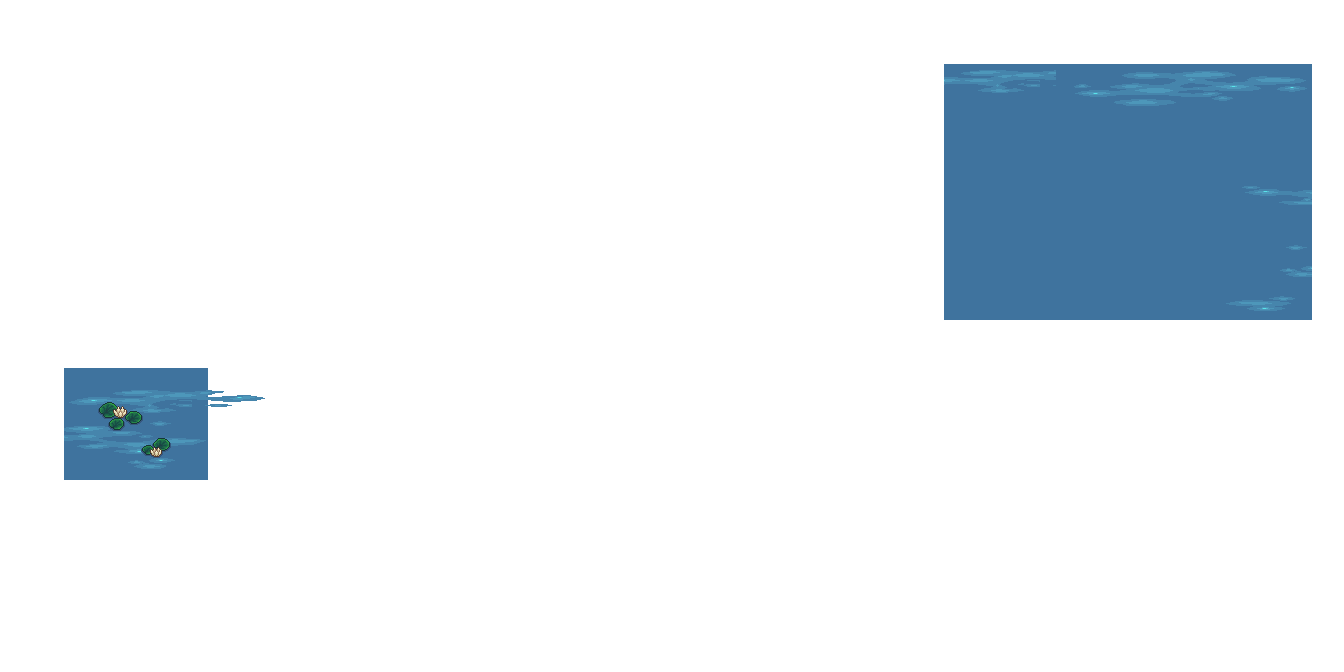
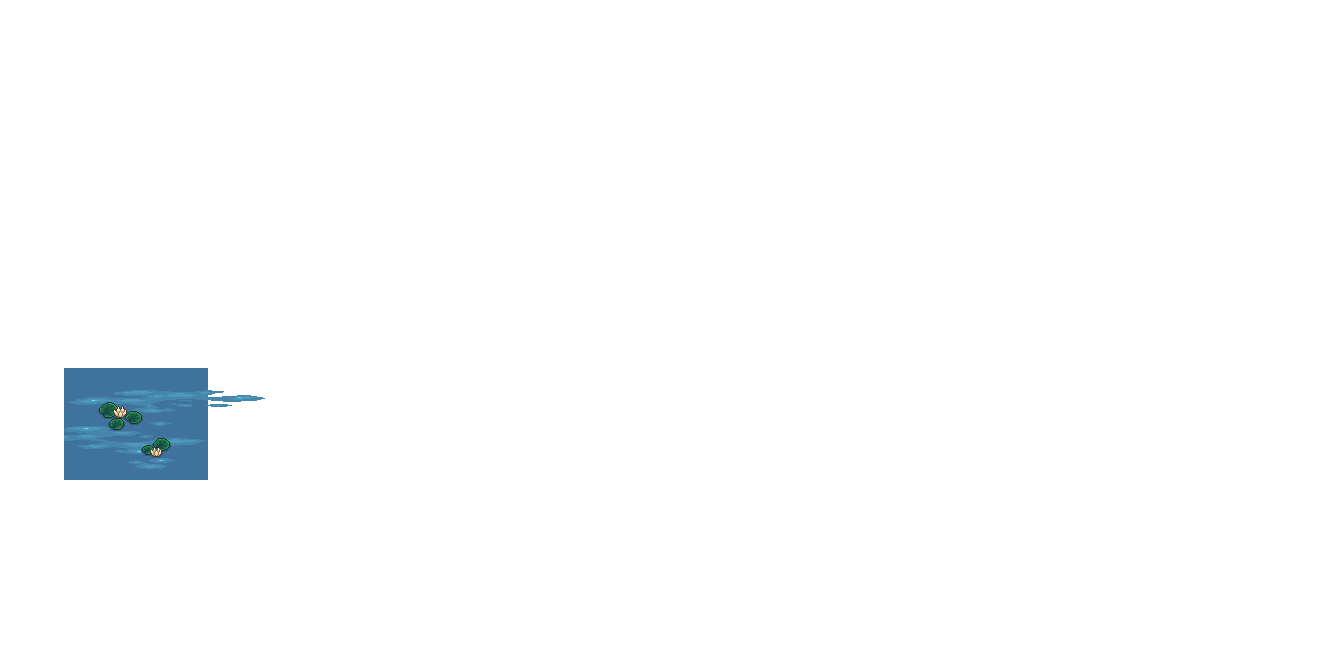
Rebuild Greyhaven as one continuous place instead of stamped rectangles
- Scenes contribute buildings, objects, water, shores and paths only; their flat grass and
  dirt fills are detected by frequency/colour and dropped, so one grass runs under everything
- Scene dirt fills are redrawn with the shared autotile as eroded, roughened clearings;
  the Lift Station gets a dirt yard the same way
- Main road wanders instead of running dead straight; base grass gets tufts and darker
  patches; the herbalist's stray ledge layer is dropped; base grass is cleared under ponds
- Water cells are solid unless a shore or bridge tile covers them

Changed region(s): [[0.6875, 0.0938, 1.0, 0.5]]

diff --git a/assets/maps/greyhaven/map.js b/assets/maps/greyhaven/map.js
@@ -1,3 +1,3 @@
 window.RPG = window.RPG || {};
 RPG.MAPS = RPG.MAPS || {};
-RPG.MAPS["greyhaven"] = {"zone": "greyhaven", "kind": "town", "w": 84, "h": 42, "tile": 16, "waterFrames": 6, "solid": "000011100001000000010000000000000111000000000000000010011100100000000000000000000000000011100011111000010000000000000110001000000000000010011000100110000000000000000000000001000011100000000000000000000000001000000000000000000000000000000000000000000000010000000001000000000000000000000000000000000000000000000000000000000000000000000000110000000000000000110000001111000000000111100000000100000000000000110011111100000000010001100000000000110000001111010000001111000110101110000000100111110011111100110000010011100000000000100000001111010000111111001111000100000000110110111111111000111000000011100000000000000000000110010000111110001111011010000000100100111111111100111000000001000000011000000001000000000111111111111110000000000001001100111111110000111000000000000000011000000000000010110001111111100110000000000001001101111111111001111000000000000000011000000000000000110001111111100000001100000001101100111111110001101000000000000000000000000000000000110001111111100000000010000000001100111111110111100000000000000000000000000000000000110001111111100011000110000000110000011111110000000000010000000000000000000000000100000001000000000000000010011000111000000000000000000000010000000000000000000000000110110000000000000000010010011000111000000000000000100000000001111111110111110111000100000001000000010000000000010000110100000000000110100000000001111111110011111110010000000111111100111000100000000000110000000000000110000000000000101111111111111111010000000110000000000001000000000000000000000000000000000000011000001111111111111100000000111111111100011111111110000000000000000000000100000000000001100011111111111000000000111111111110011111111110010000000000000000000000000000000000001111111111110000000010111111111110011111111110000000000000000000000000000000000000000011111111110000000000111111101110000011111110000000000000000000000000011000000000000011111111110000000000111100000000000000011110000000000000000000000000011000000000000000111111000000000000111000000000000000001110000000000000000000000000000000000000000000000000000000010000110000000000000000000110000000110001000000000001110000000000000000000000000000000000110000100000000000000000000000000001000000000001100000000000000000000000000000000000000000100000000000000000000000000000000000000000000000000000000000000000000000000000000000000000000000000000000000000000000000000000000000000000000000000000000000000000000000000000000000000000000000000000000000000001110000000000000000000000000010000000000000000000000000000000001100000000000000000001100000000000000000000000000000000010000011100000000000011000001100000000000000000000000000000000000000000000000000000000011111111100000000001000000000000000010000000000000000000000000000000000000000000000111111110000000000000110000000000000010000010000000000000000000000000000000000000000111111111100011111111110000000000000000000000000000000000000000000000000000000000000000000000000000000000000000000000000000000000000000000000000000000000000000000000000000000000000000000000000000000000000000000000000000000000000000000000000000000000000000000000000000000000000000000000000000000000000000000000000000000000000000000000000000000000000000000000000000000000000000000000000000000000000000000000000000000000000010000001000000000001000000000111100000000000000000000000000000000000000100000000000010000001001000000011100000010011000010110000000000000000010000001000110000000000000000001000011000000001000110010011000010000011000000000000010000000000000000000000000000001000000000000000000000000000000000000000000000000", "entry": [1, 35], "exit": [82, 35], "walkable": 2840, "doors": [{"id": "hall", "zone": "hall_int", "label": "Hunter Hall", "cells": [[40, 13], [41, 13]]}, {"id": "clinic", "zone": "clinic_int", "label": "The Clinic", "cells": [[14, 24], [15, 24]]}, {"id": "lift", "zone": "lift_int", "label": "Old Lift Station", "cells": [[69, 13], [70, 13]]}], "npcs": [{"id": "speaker", "sprite": "npcs/speaker", "x": 584, "y": 460, "dir": 3, "wander": true}, {"id": "archivist", "sprite": "npcs/archivist", "x": 1192, "y": 236, "dir": 0, "wander": false}, {"id": "keeper1", "sprite": "npcs/keeper1", "x": 1032, "y": 236, "dir": 3, "wander": false}, {"id": "keeper2", "sprite": "npcs/keeper2", "x": 1224, "y": 204, "dir": 2, "wander": false}, {"id": "baker", "sprite": "npcs/baker", "x": 776, "y": 364, "dir": 0, "wander": false}, {"id": "smith", "sprite": "npcs/smith", "x": 728, "y": 444, "dir": 0, "wander": false}, {"id": "tapster", "sprite": "npcs/tapster", "x": 712, "y": 508, "dir": 0, "wander": false}, {"id": "lutist", "sprite": "npcs/lutist", "x": 648, "y": 444, "dir": 0, "wander": false}, {"id": "flutist", "sprite": "npcs/flutist", "x": 680, "y": 444, "dir": 0, "wander": false}, {"id": "wren", "sprite": "npcs/wren", "x": 536, "y": 380, "dir": 0, "wander": false}, {"id": "relicseller", "sprite": "npcs/relicseller", "x": 792, "y": 476, "dir": 0, "wander": false}, {"id": "townsfolk1", "sprite": "npcs/townsfolk1", "x": 568, "y": 396, "dir": 0, "wander": true}, {"id": "townsfolk2", "sprite": "npcs/townsfolk2", "x": 744, "y": 396, "dir": 2, "wander": true}, {"id": "townsfolk3", "sprite": "npcs/townsfolk3", "x": 600, "y": 492, "dir": 3, "wander": true}, {"id": "townsfolk4", "sprite": "npcs/townsfolk4", "x": 328, "y": 540, "dir": 0, "wander": true}], "objects": [{"id": "liftdoor", "x": 1128, "y": 200, "radius": 22}, {"id": "well", "x": 920, "y": 488, "radius": 20}]};
+RPG.MAPS["greyhaven"] = {"zone": "greyhaven", "kind": "town", "w": 84, "h": 42, "tile": 16, "waterFrames": 6, "solid": "000011100001000000010000000000000000000000000000000010011100100000000000000000000000000011100011111000010000000000111000001000000000000010011000100110001100000000000000000001000011100000000000000000110000001000000000000000000000000000000000000000000000010000000001000000000000000000000000000000000000000000000000000000000000000000000000110000000000000000110000001111000000000111100000000100000000000000110011111100000000010001100000000000110000001111010000001111000110101110000000100111110011111100110000010011100000000000100000001111010000111111001111000100000000110110111111111000111000000011100000000000000000000110010000111110001111011010000000100100111111111100111000000001000000011000000001000000000111111111111110000000000001001100111111110000111000000000000000011000000000000010110001111111100110000000000001001101111111111001111000000000000000011000000000000000110001111111100000001100000001101100111111110001101000000000000000000000000000000000110001111111100000000010000000001100111111110111100000000000000000000000000000000000110001111111100011000110000000110000011111110000000000010000000000000000000000000100000001000000000000000010011000111000000000000000000000010000000000000000000000000110110000000000000000010010011000111000000000000000100000000001111111110111110111000100000001000000010000000000010000110100000000000110100000000001111111110011111110010000000111111100111000100000000000110000000000000110000000000000101111111111111111010000000110000000000001000000000000000000000000000000000000011000001111111111111100000000111111111100011111111110000000000000000000000100000000000001100011111111111000000000111111111110011111111110010000000000000000000000000000000000001111111111110000000010111110001110011011000110000000110000000000000000000000000000000011111111110000000000111111101110000011110110000000000000000000000000011000000000000011111111110000000000000100000000000000010000000000000000000000000000011000000000000000111111000000000000001000000000000000001000000000000000000000000000000000000000011100000000000000010000110000000000000000000110000000110001000000000001110000000001111110000000000000000000110000100000000000000000000000000001000000000001100000000001111111000000000000000000000000100000000000000000000000000000000000000000000000000001111111000000000000000000000000000000000000000000000000000000000000000000000000000000111110000000000000000000000000000000000000000000000000000000000000000001110000000000001000000000000010000000000000000000000000000000001100000000000000000001100000000000000000000000000000000010000011100000000000011000001100000000000000000000000000000000000000000000000000000000011111111100000000001000000000000000010000000000000000000000000000000000000000000000111111110000000000000110000000000000010000000000000000000000000000000000000000000000111111111100011111111110000000000000000000000000000000000000000000000000000000000000000000000000000000000000000000000000000000000000000000000000000000000000000000000000000000000000000000000000000000000000000000000000000000000000000000000000000000000000000000000000000000000000000000000000000000000000000000000000000000000000000000000000000000000000000000000000000000000000000000000000000000000000000000000000000000000000010000001000000000000000000000000000000000000000000000000000000000000000100000000000010000001001000000000000000000000000000000000000000000000010000001000110000000000000000001000011000000000000110000000010000000011000000000000010000000000000000000000000000001000000000000000000000000000000000000000000000000", "entry": [1, 35], "exit": [82, 35], "walkable": 2844, "doors": [{"id": "hall", "zone": "hall_int", "label": "Hunter Hall", "cells": [[40, 13], [41, 13]]}, {"id": "clinic", "zone": "clinic_int", "label": "The Clinic", "cells": [[14, 24], [15, 24]]}, {"id": "lift", "zone": "lift_int", "label": "Old Lift Station", "cells": [[69, 13], [70, 13]]}], "npcs": [{"id": "speaker", "sprite": "npcs/speaker", "x": 584, "y": 460, "dir": 3, "wander": true}, {"id": "archivist", "sprite": "npcs/archivist", "x": 1192, "y": 236, "dir": 0, "wander": false}, {"id": "keeper1", "sprite": "npcs/keeper1", "x": 1032, "y": 236, "dir": 3, "wander": false}, {"id": "keeper2", "sprite": "npcs/keeper2", "x": 1224, "y": 204, "dir": 2, "wander": false}, {"id": "baker", "sprite": "npcs/baker", "x": 776, "y": 364, "dir": 0, "wander": false}, {"id": "smith", "sprite": "npcs/smith", "x": 728, "y": 444, "dir": 0, "wander": false}, {"id": "tapster", "sprite": "npcs/tapster", "x": 712, "y": 508, "dir": 0, "wander": false}, {"id": "lutist", "sprite": "npcs/lutist", "x": 648, "y": 444, "dir": 0, "wander": false}, {"id": "flutist", "sprite": "npcs/flutist", "x": 680, "y": 444, "dir": 0, "wander": false}, {"id": "wren", "sprite": "npcs/wren", "x": 536, "y": 380, "dir": 0, "wander": false}, {"id": "relicseller", "sprite": "npcs/relicseller", "x": 792, "y": 476, "dir": 0, "wander": false}, {"id": "townsfolk1", "sprite": "npcs/townsfolk1", "x": 568, "y": 396, "dir": 0, "wander": true}, {"id": "townsfolk2", "sprite": "npcs/townsfolk2", "x": 744, "y": 396, "dir": 2, "wander": true}, {"id": "townsfolk3", "sprite": "npcs/townsfolk3", "x": 600, "y": 492, "dir": 3, "wander": true}, {"id": "townsfolk4", "sprite": "npcs/townsfolk4", "x": 328, "y": 540, "dir": 0, "wander": true}], "objects": [{"id": "liftdoor", "x": 1128, "y": 200, "radius": 22}, {"id": "well", "x": 920, "y": 488, "radius": 20}]};

diff --git a/index.html b/index.html
@@ -9,7 +9,7 @@
 <title>TheRPG · VEILBOUND</title>
 <link rel="preconnect" href="https://fonts.googleapis.com">
 <link href="https://fonts.googleapis.com/css2?family=Press+Start+2P&display=swap" rel="stylesheet">
-<link rel="stylesheet" href="css/style.css?v=20260904e">
+<link rel="stylesheet" href="css/style.css?v=20260904g">
 </head>
 <body>
 <canvas id="game"></canvas>
@@ -149,23 +149,23 @@
   <div class="menu"><button id="btn-again">Keep Exploring</button><button id="btn-quit3">Quit to Title</button></div>
 </div>
 
-<script>window.RPG = window.RPG || {}; RPG.ASSET_VERSION = "20260904e";</script>
-<script src="assets/sprites.js?v=20260904e"></script>
-<script src="assets/maps/grassland/map.js?v=20260904e"></script>
-<script src="assets/maps/forest/map.js?v=20260904e"></script>
-<script src="assets/maps/cursed/map.js?v=20260904e"></script>
-<script src="assets/maps/greyhaven/map.js?v=20260904e"></script>
-<script src="assets/maps/hall_int/map.js?v=20260904e"></script>
-<script src="assets/maps/clinic_int/map.js?v=20260904e"></script>
-<script src="assets/maps/lift_int/map.js?v=20260904e"></script>
-<script src="js/audio.js?v=20260904e"></script>
-<script src="js/assets.js?v=20260904e"></script>
-<script src="js/map.js?v=20260904e"></script>
-<script src="js/entities.js?v=20260904e"></script>
-<script src="js/story.js?v=20260904e"></script>
-<script src="js/town.js?v=20260904e"></script>
-<script src="js/game.js?v=20260904e"></script>
-<script src="js/touch.js?v=20260904e"></script>
-<script src="js/main.js?v=20260904e"></script>
+<script>window.RPG = window.RPG || {}; RPG.ASSET_VERSION = "20260904g";</script>
+<script src="assets/sprites.js?v=20260904g"></script>
+<script src="assets/maps/grassland/map.js?v=20260904g"></script>
+<script src="assets/maps/forest/map.js?v=20260904g"></script>
+<script src="assets/maps/cursed/map.js?v=20260904g"></script>
+<script src="assets/maps/greyhaven/map.js?v=20260904g"></script>
+<script src="assets/maps/hall_int/map.js?v=20260904g"></script>
+<script src="assets/maps/clinic_int/map.js?v=20260904g"></script>
+<script src="assets/maps/lift_int/map.js?v=20260904g"></script>
+<script src="js/audio.js?v=20260904g"></script>
+<script src="js/assets.js?v=20260904g"></script>
+<script src="js/map.js?v=20260904g"></script>
+<script src="js/entities.js?v=20260904g"></script>
+<script src="js/story.js?v=20260904g"></script>
+<script src="js/town.js?v=20260904g"></script>
+<script src="js/game.js?v=20260904g"></script>
+<script src="js/touch.js?v=20260904g"></script>
+<script src="js/main.js?v=20260904g"></script>
 </body>
 </html>

diff --git a/tools/build_greyhaven.py b/tools/build_greyhaven.py
@@ -31,13 +31,21 @@ PLATE_TOP, PLATE_MID, PLATE_BOT = [179, 180, 181, 182], [196, 197, 198, 199], [2
 WELL = [[582, 583], [599, 600], [616, 617]]
 
 # ---- where each scene's local (0,0) lands on the town grid
+# (id, tmx, ox, oy, skipped layers). Scenes are not copied wholesale: their own grass is
+# dropped so the town's grass runs under everything and the packs' different grass tones never
+# meet edge to edge (see stamp_filter).
 STAMPS = [
     ('home', os.path.join(TOWN, 'home', 'Exterior.tmx'), 44, 10, ('Birds', 'cat')),
-    ('herb', os.path.join(TOWN, 'herbalist', 'Exterior.tmx'), 16, 38, ('birds',)),
-    ('temple', os.path.join(TOWN, 'temple', 'Ruined_temple_exterior.tmx'), 70, 16, ('Discoverers',)),
+    ('herb', os.path.join(TOWN, 'herbalist', 'Exterior.tmx'), 16, 38, ('birds', 'ground_grass_top')),
+    ('temple', os.path.join(TOWN, 'temple', 'Ruined_temple_exterior.tmx'), 70, 16,
+     ('Discoverers', 'water', 'water_detailization', 'ground', 'spots', 'spots2', 'grass', 'grass_details', 'site')),
     # Market Row: the market square pack, its street openings lined up with the Hunter Hall road
     ('market', os.path.join(TOWN, 'market', 'Market_square.tmx'), 40, 28, ('NPC_street',)),
 ]
+# dirt yards laid with the shared autotile under scenes whose own ground was dropped
+YARDS = [(62, 79, 4, 20)]
+SPOT_IDS = [114, 134, 135, 155, 156, 90, 105, 106, 126, 127, 141, 162]   # ground_grass_details.png
+GROUND_DETAILS = os.path.join(TOWN, 'home', 'ground_grass_details.png')
 MARKET_OX, MARKET_OY = 40, 28
 # door approach tiles (town coords) -> interior zone
 DOORS = [
@@ -45,11 +53,13 @@ DOORS = [
     dict(id='clinic', zone='clinic_int', label='The Clinic', cells=[(14, 24), (15, 24)]),
     dict(id='lift', zone='lift_int', label='Old Lift Station', cells=[(69, 13), (70, 13)]),
 ]
-ROADS_H = [(0, 83, 34, 36)]                       # x0, x1, y0, y1 inclusive
-ROADS_V = [(14, 15, 25, 33), (40, 41, 14, 17), (69, 70, 14, 33)]
+import math
+def road_y(x):                                     # top row of the main road at column x
+    return 34 + int(round(1.3 * math.sin(x / 7.0) + 0.6 * math.sin(x / 3.1)))
+ROADS_V = [(14, 15, 25, 38), (40, 41, 14, 17), (69, 70, 14, 38)]
 PLAZA = (55, 59, 27, 31)          # packed dirt around the well, east of the market
 WELL_AT = (56, 28)
-ENTRY, EXIT = (1, 35), (82, 35)
+ENTRY, EXIT = (1, road_y(1) + 1), (82, road_y(82) + 1)
 def M(lx, ly):
     return (MARKET_OX + lx, MARKET_OY + ly)   # market-scene local tile -> town tile
 
@@ -100,6 +110,94 @@ def is_water(name):
     return 'water' in n
 
 
+_mean = {}
+
+
+def tile_mean(t):
+    key = t[:3]
+    if key not in _mean:
+        im = T.tile_image(t)
+        px = [p for p in im.getdata() if p[3] > 40]
+        n = max(1, len(px))
+        _mean[key] = (sum(p[0] for p in px) / n, sum(p[1] for p in px) / n, sum(p[2] for p in px) / n)
+    return _mean[key]
+
+
+def scene_background(sl, skip):
+    """Split a scene's flat fills from its features. Returns (drop, dirt): tile keys to drop, and
+    the cells of dirt fills (redrawn later with the shared autotile so their edges blend)."""
+    from collections import Counter
+    cnt = Counter()
+    where = {}
+    total = 0
+    for name, cells in sl:
+        if name in skip or is_over(name) or is_water(name):
+            continue
+        for p, t in cells.items():
+            total += 1
+            if T.coverage(t) >= 0.97:
+                cnt[t[:3]] += 1
+                where.setdefault(t[:3], []).append(p)
+    drop, dirt = set(), set()
+    fills = [k for k, n in cnt.items() if n >= max(20, total * 0.04)]
+    for k in fills:
+        r, g, b = tile_mean(k + (None,))
+        drop.add(k)
+        if not (g > r + 8 and g > b + 20):        # a dirt / sand fill
+            dirt.update(where[k])
+        else:                                     # a grass fill: drop its colour variants too
+            for key in cnt:
+                r2, g2, b2 = tile_mean(key + (None,))
+                if abs(r2 - r) + abs(g2 - g) + abs(b2 - b) < 60 and g2 >= r2:
+                    drop.add(key)
+    return drop, dirt
+
+
+def organic(mask, rng, erode=2):
+    """Erode a cell mask and roughen its border so authored rectangles read as clearings."""
+    def erode1(m):
+        return {c for c in m if all((c[0] + dx, c[1] + dy) in m for dx in (-1, 0, 1) for dy in (-1, 0, 1))}
+    core = set(mask)
+    for _ in range(erode):
+        core = erode1(core)
+    out = set(core)
+    rim = set(mask) - core
+    for _ in range(2):                      # grow back irregularly, twice
+        added = set()
+        for c in rim:
+            if c in out:
+                continue
+            near = sum(1 for dx in (-1, 0, 1) for dy in (-1, 0, 1) if (c[0] + dx, c[1] + dy) in out)
+            if near >= 2 and rng.random() < 0.55:
+                added.add(c)
+        out |= added
+    return out
+
+
+TUFT_LAYERS = ('spots', 'grass_detail', 'grass_top', 'small_flowers')
+
+
+def stamp_filter(sid, name, cells, background, wet=frozenset()):
+    """Keep buildings, objects, water and paths from a scene; drop its flat grass and tufts.
+    Anything sitting on a water cell is a shore and is always kept."""
+    n = name.lower()
+    if wet:
+        shore = {p: t for p, t in cells.items() if p in wet}
+        rest = {p: t for p, t in cells.items() if p not in wet}
+        out = stamp_filter(sid, name, rest, background)
+        out.update(shore)
+        return out
+    if sid == 'market':
+        if n == 'walls_grass':
+            return {p: t for p, t in cells.items() if t[:3] not in background and not (T.coverage(t) >= 0.97 and tile_mean(t)[1] > tile_mean(t)[0] + 12)}
+        return dict(cells)
+    if is_over(name) or is_water(name):
+        return dict(cells)
+    if n.startswith(TUFT_LAYERS):
+        return {}
+    return {p: t for p, t in cells.items() if t[:3] not in background}
+
+
 def dirt_autotile(mask):
     """mask: set of (x, y) road cells -> {(x, y): tile}."""
     out = {}
@@ -132,24 +230,54 @@ def build_town():
     detail = {}
     for x in range(W):
         for y in range(H):
-            if random.random() < 0.07:
+            if random.random() < 0.16:
                 detail[(x, y)] = tile(random.choice(GRASS_VARIANTS))
     layers.append(('grass_detail', detail))
 
-    # scenes
+    # darker grass patches so the base isn't one flat colour
+    spots = {}
+    rng = random.Random(3)
+    for _ in range(90):
+        cx, cy = rng.randrange(W), rng.randrange(H)
+        for dx in range(rng.randrange(1, 4)):
+            for dy in range(rng.randrange(1, 3)):
+                spots[(cx + dx, cy + dy)] = tile(rng.choice(SPOT_IDS), GROUND_DETAILS)
+    layers.append(('spots', spots))
+
+    # dirt yards under the Lift Station and the Clinic, laid before the scenes
+    yard = set()
+    for x0, x1, y0, y1 in YARDS:
+        yard |= organic({(x, y) for x in range(x0, x1 + 1) for y in range(y0, y1 + 1)}, rng, erode=1)
+
+    # scenes, minus their own flat fills (their dirt yards are redrawn with the shared autotile)
+    scene_layers = []
+    wet_town = set()
     for sid, path, ox, oy, skip in STAMPS:
         sl, _ = T.load_tmx(path)
+        background, dirt = scene_background(sl, skip) if sid != 'market' else (set(), set())
+        wet = {p for name, cells in sl if is_water(name) and name not in skip for p, t in cells.items() if T.coverage(t) >= 0.5}
+        wet_town |= {(x + ox, y + oy) for (x, y) in wet}
+        yard |= organic({(x + ox, y + oy) for (x, y) in dirt if (x, y) not in wet}, rng, erode=3 if sid == 'herb' else 1)
         for name, cells in sl:
             if name in skip:
                 continue
-            layers.append((sid + '/' + name, {(x + ox, y + oy): t for (x, y), t in cells.items()}))
+            kept = stamp_filter(sid, name, cells, background, frozenset(wet))
+            if kept:
+                scene_layers.append((sid + '/' + name, {(x + ox, y + oy): t for (x, y), t in kept.items()}))
+    yard -= wet_town
+    layers.append(('yards', dirt_autotile(yard)))
+    layers.extend(scene_layers)
+    # water is drawn beneath the ground image, so the town's own grass must not cover a pond
+    for name, cells in layers:
+        if name in ('base', 'grass_detail', 'spots'):
+            for c in wet_town:
+                cells.pop(c, None)
 
-    # roads (drawn over the stamps' grass so they join the yards)
+    # roads: a wandering main road plus the branches to each door
     mask = set()
-    for x0, x1, y0, y1 in ROADS_H:
-        for x in range(x0, x1 + 1):
-            for y in range(y0, y1 + 1):
-                mask.add((x, y))
+    for x in range(W):
+        for dy in range(3):
+            mask.add((x, road_y(x) + dy))
     for x0, x1, y0, y1 in ROADS_V:
         for x in range(x0, x1 + 1):
             for y in range(y0, y1 + 1):
@@ -267,7 +395,8 @@ def bake_town(preview_dir):
     out_dir = os.path.join(OUT, 'greyhaven')
     force_walk = [c for d in DOORS for c in d['cells']] + [ENTRY, EXIT]
     force_solid = [(WELL_AT[0] + c, WELL_AT[1] + r) for r in (1, 2) for c in (0, 1)]
-    solid, comp = T.bake(out_dir, layers, W, H, water, over, force_walkable=force_walk, force_solid=force_solid)
+    solid, comp = T.bake(out_dir, layers, W, H, water, over, force_walkable=force_walk, force_solid=force_solid,
+                         base_layers=('base', 'grass_detail', 'spots', 'yards', 'road', 'plaza'))
     for c in force_walk:
         assert c in comp, 'door/entry %s is not reachable' % (c,)
     npcs = []

diff --git a/tools/tmxlib.py b/tools/tmxlib.py
@@ -135,7 +135,7 @@ def render(layers, names, W, H, frame=0, ox=0, oy=0):
 
 
 def bake(out_dir, layers, W, H, water, over, ground_min=0.4, over_max=0.6, water_frames=6,
-         ox=0, oy=0, force_walkable=(), force_solid=(), bounds_solid=True):
+         ox=0, oy=0, force_walkable=(), force_solid=(), bounds_solid=True, base_layers=()):
     """Write water_N/ground/over PNGs and return (solid grid [y][x], largest component set)."""
     os.makedirs(out_dir, exist_ok=True)
     water, over = set(water), set(over)
@@ -147,15 +147,20 @@ def bake(out_dir, layers, W, H, water, over, ground_min=0.4, over_max=0.6, water
 
     gcov = [[0.0] * W for _ in range(H)]
     ocov = [[0.0] * W for _ in range(H)]
+    wcov = [[0.0] * W for _ in range(H)]   # water fill
+    scov = [[0.0] * W for _ in range(H)]   # scene ground (coasts, bridges) that may cover water
+    base_layers = set(base_layers)
     for name, cells in layers:
-        if name in water:
-            continue
-        tgt = ocov if name in over else gcov
+        tgt = wcov if name in water else ocov if name in over else gcov
         for (x, y), tile in cells.items():
             x, y = x - ox, y - oy
             if 0 <= x < W and 0 <= y < H:
-                tgt[y][x] = max(tgt[y][x], coverage(tile))
-    solid = [[not (gcov[y][x] >= ground_min and ocov[y][x] < over_max) for x in range(W)] for y in range(H)]
+                c = coverage(tile)
+                tgt[y][x] = max(tgt[y][x], c)
+                if tgt is gcov and name not in base_layers:
+                    scov[y][x] = max(scov[y][x], c)
+    solid = [[not (gcov[y][x] >= ground_min and ocov[y][x] < over_max) or (wcov[y][x] >= 0.9 and scov[y][x] < 0.5)
+              for x in range(W)] for y in range(H)]
     for (x, y) in force_walkable:
         solid[y][x] = False
     for (x, y) in force_solid:
